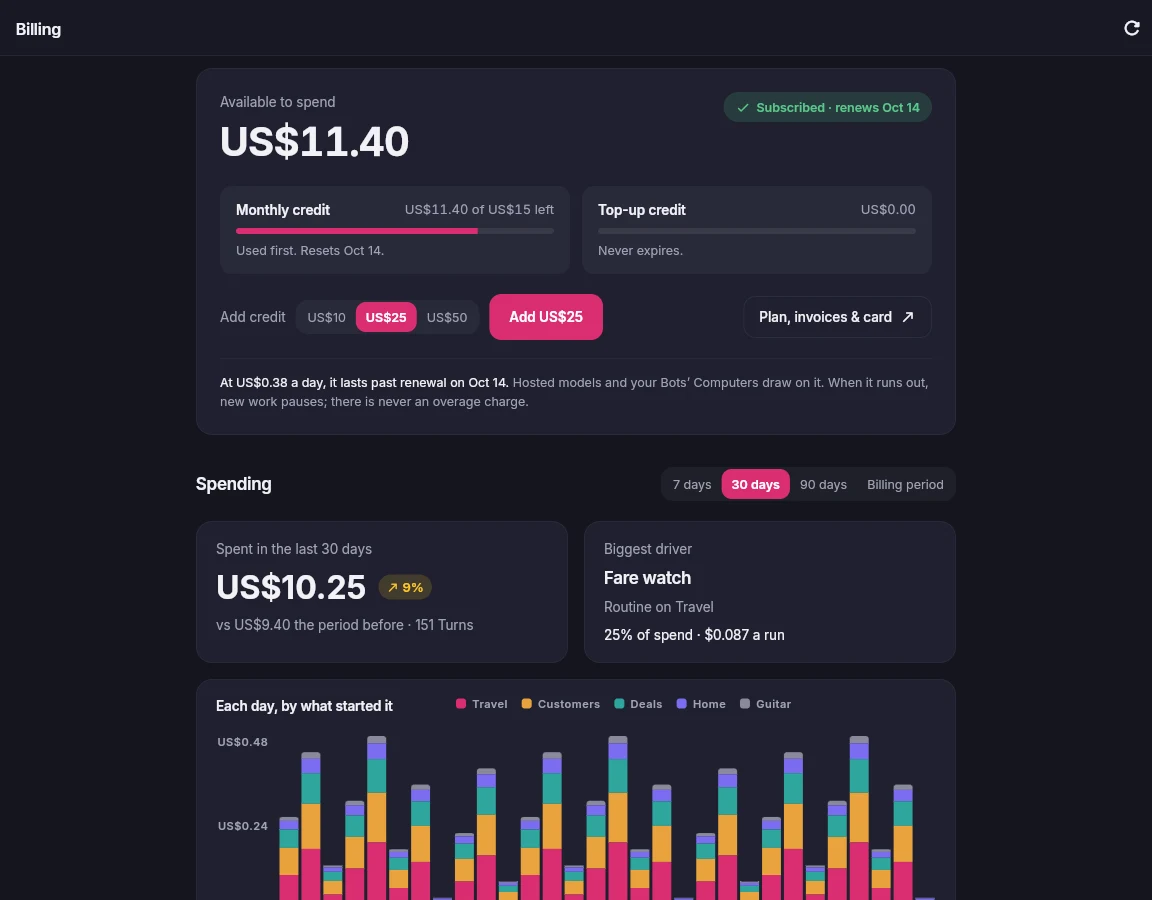
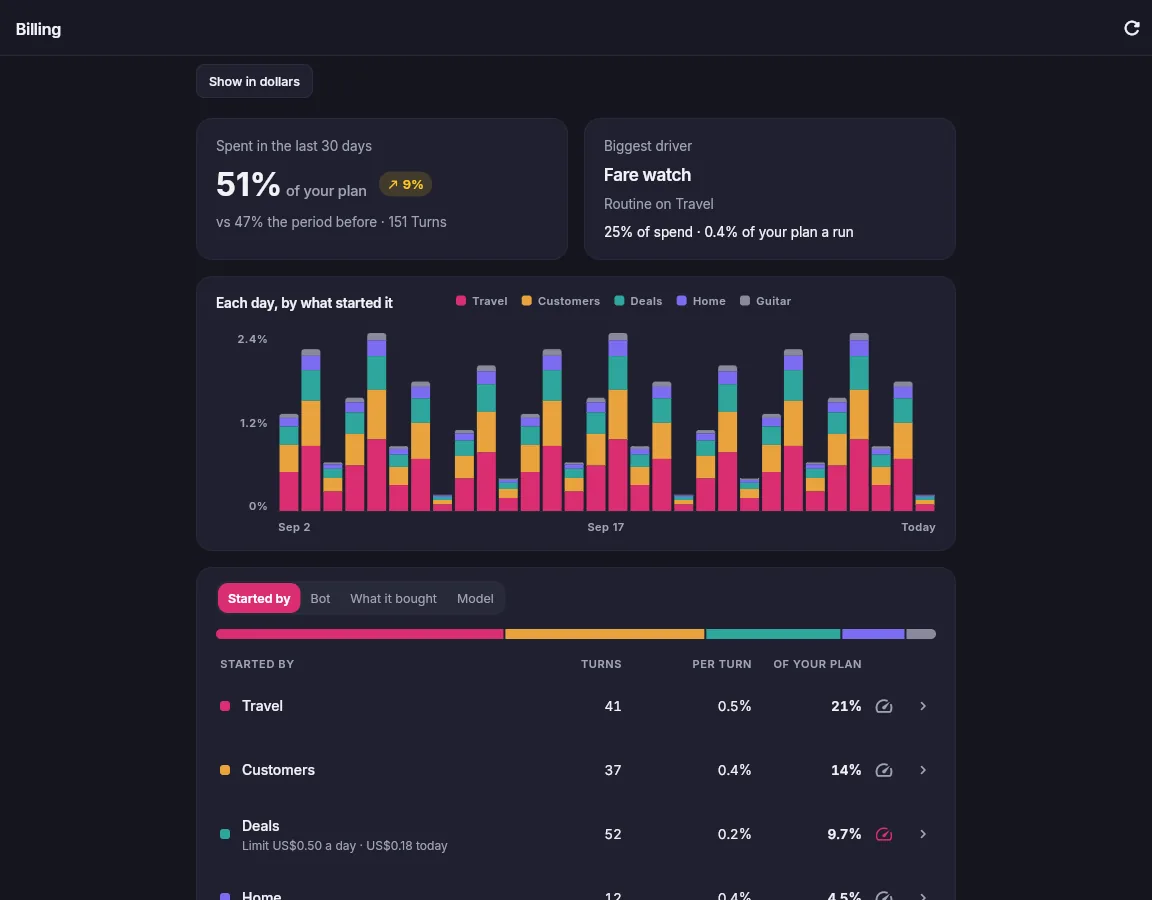
Give the 'own look' screenshot a look neither Ink nor Paper could be
Deals now wears butter yellow with tomato red messages beside the Ink sidebar,
where the navy it wore before read as the dark look. Every Bot in the shots
gets its own character, and Spending matches the current Billing page and
opens on the chart.

Changed region(s): [[0.1562, 0.0622, 0.8125, 0.7467], [0.1875, 0.7778, 0.8125, 1.0], [0.625, 0.0933, 0.8125, 0.1556]]

diff --git a/apps/cloudflare/e2e/marketing.shots.ts b/apps/cloudflare/e2e/marketing.shots.ts
@@ -508,18 +508,26 @@ async function installSpending(page: Page) {
             suspended: false,
             subscription: {
               status: "active",
+              planId: "standard",
               periodEnd: renews,
               cancelAtPeriodEnd: false,
             },
             includedMicros: 11_400_000,
+            includedGrantedMicros: 20_000_000,
             complimentaryMicros: 0,
             purchasedMicros: 0,
             reservedMicros: 0,
             payments: [],
             plan: {
               currency: "usd",
-              monthlyCents: 2000,
-              includedMicros: 15_000_000,
+              subscriptions: [
+                {
+                  id: "standard",
+                  name: "Standard",
+                  monthlyCents: 2000,
+                  includedMicros: 20_000_000,
+                },
+              ],
               topUpCents: [1000, 2500, 5000],
             },
             computerRate: {
@@ -565,6 +573,34 @@ async function setAccountLook(
   });
 }
 
+// A Bot's character is picked at random when it is made: these give every
+// Bot in the shots its own, so no two rows of the sidebar look alike.
+const CHARACTERS: Record<string, [string, string]> = {
+  General: ["pixel", "#fc85ae"],
+  Home: ["sunny", "#ffc928"],
+  Travel: ["goat", "#d8c8ab"],
+  Deals: ["chill", "#59c7ff"],
+  Guitar: ["nudge", "#ff8b27"],
+  Customers: ["cat", "#8b72d9"],
+};
+
+async function cast(request: APIRequestContext, userId: string) {
+  const bootstrap = await asUser(request, userId, "/api/bots/bootstrap");
+  ids.General = bootstrap.generalBotId as string;
+  for (const [name, [characterId, primary]] of Object.entries(CHARACTERS)) {
+    const botId = idOf(name);
+    const current = await asUser(request, userId, `/api/bots/${botId}/avatar`);
+    await asUser(request, userId, `/api/bots/${botId}/avatar`, {
+      schemaVersion: 1,
+      type: "bot/update-avatar",
+      commandId: crypto.randomUUID(),
+      expectedRevision: current.revision,
+      botId,
+      avatar: { schemaVersion: 1, characterId, primary },
+    });
+  }
+}
+
 async function dressDeals(request: APIRequestContext, userId: string) {
   const botId = idOf("Deals");
   const current = await asUser(request, userId, `/api/bots/${botId}/look`);
@@ -579,15 +615,17 @@ async function dressDeals(request: APIRequestContext, userId: string) {
       schemaVersion: 1,
       look: "ink",
       tokens: {
+        // Neither Ink nor Paper could be this: beside the Ink sidebar the
+        // conversation has to read as the Bot's own at a glance.
         surfaces: {
-          window: "#0e1526",
-          surface: "#121b30",
-          raised: "#1a2540",
-          text: "#eef2fb",
-          muted: "#95a3c0",
-          line: "#25324f",
-          accent: "#f0a830",
-          onAccent: "#1a1206",
+          window: "#ffe7a3",
+          surface: "#ffdd85",
+          raised: "#fff6dc",
+          text: "#2a1606",
+          muted: "#8a5a1f",
+          line: "#f2c24f",
+          accent: "#c8321b",
+          onAccent: "#fff8ec",
         },
         type: "manrope",
         bubbles: { bot: "raised", me: "accent" },
@@ -670,7 +708,10 @@ test("marketing screenshots", async ({ page, userId, baseURL }) => {
         await sendMessage(page, said, { replies: 1 });
     }
 
+    await cast(page.request, userId);
     await dressDeals(page.request, userId);
+    // The sidebar picks up the new characters on the next load.
+    await openApplication(page, userId);
 
     // 1. The customer list, in Paper.
     await show(page, "Customers");
@@ -703,6 +744,10 @@ test("marketing screenshots", async ({ page, userId, baseURL }) => {
     await expect(page.getByText(/Credit left|Spending/).first())
       .toBeVisible({ timeout: 30_000 })
       .catch(() => undefined);
+    // Spending, chart and all, rather than the plan card above it.
+    await page.mouse.move(860, 500);
+    await page.mouse.wheel(0, 560);
+    await page.mouse.move(140, 880);
     // The Billing pane alone: the account column beside it is chrome.
     await shoot(page, "spending", { x: 288, y: 0, width: 1152, height: 900 });
   } finally {

diff --git a/apps/marketing/public/index.html b/apps/marketing/public/index.html
@@ -673,7 +673,7 @@
                 <figure class="yours-slide" id="yours-slide-3">
                   <img
                     src="/assets/app/theme.webp"
-                    alt="A FrockBot conversation in a custom navy and amber look."
+                    alt="A FrockBot conversation in the Bot's own look: butter yellow with tomato red messages, beside the dark sidebar."
                     width="1440"
                     height="900"
                     loading="lazy"
@@ -775,7 +775,7 @@
             <img
               class="work-spending"
               src="/assets/app/spending.webp"
-              alt="FrockBot's Spending page: how much of the month is left, how long it will last, and what each bot uses."
+              alt="FrockBot's Spending page: how much of the plan the month used, each day by what started it, and what each bot uses."
               width="1152"
               height="900"
               loading="lazy"
